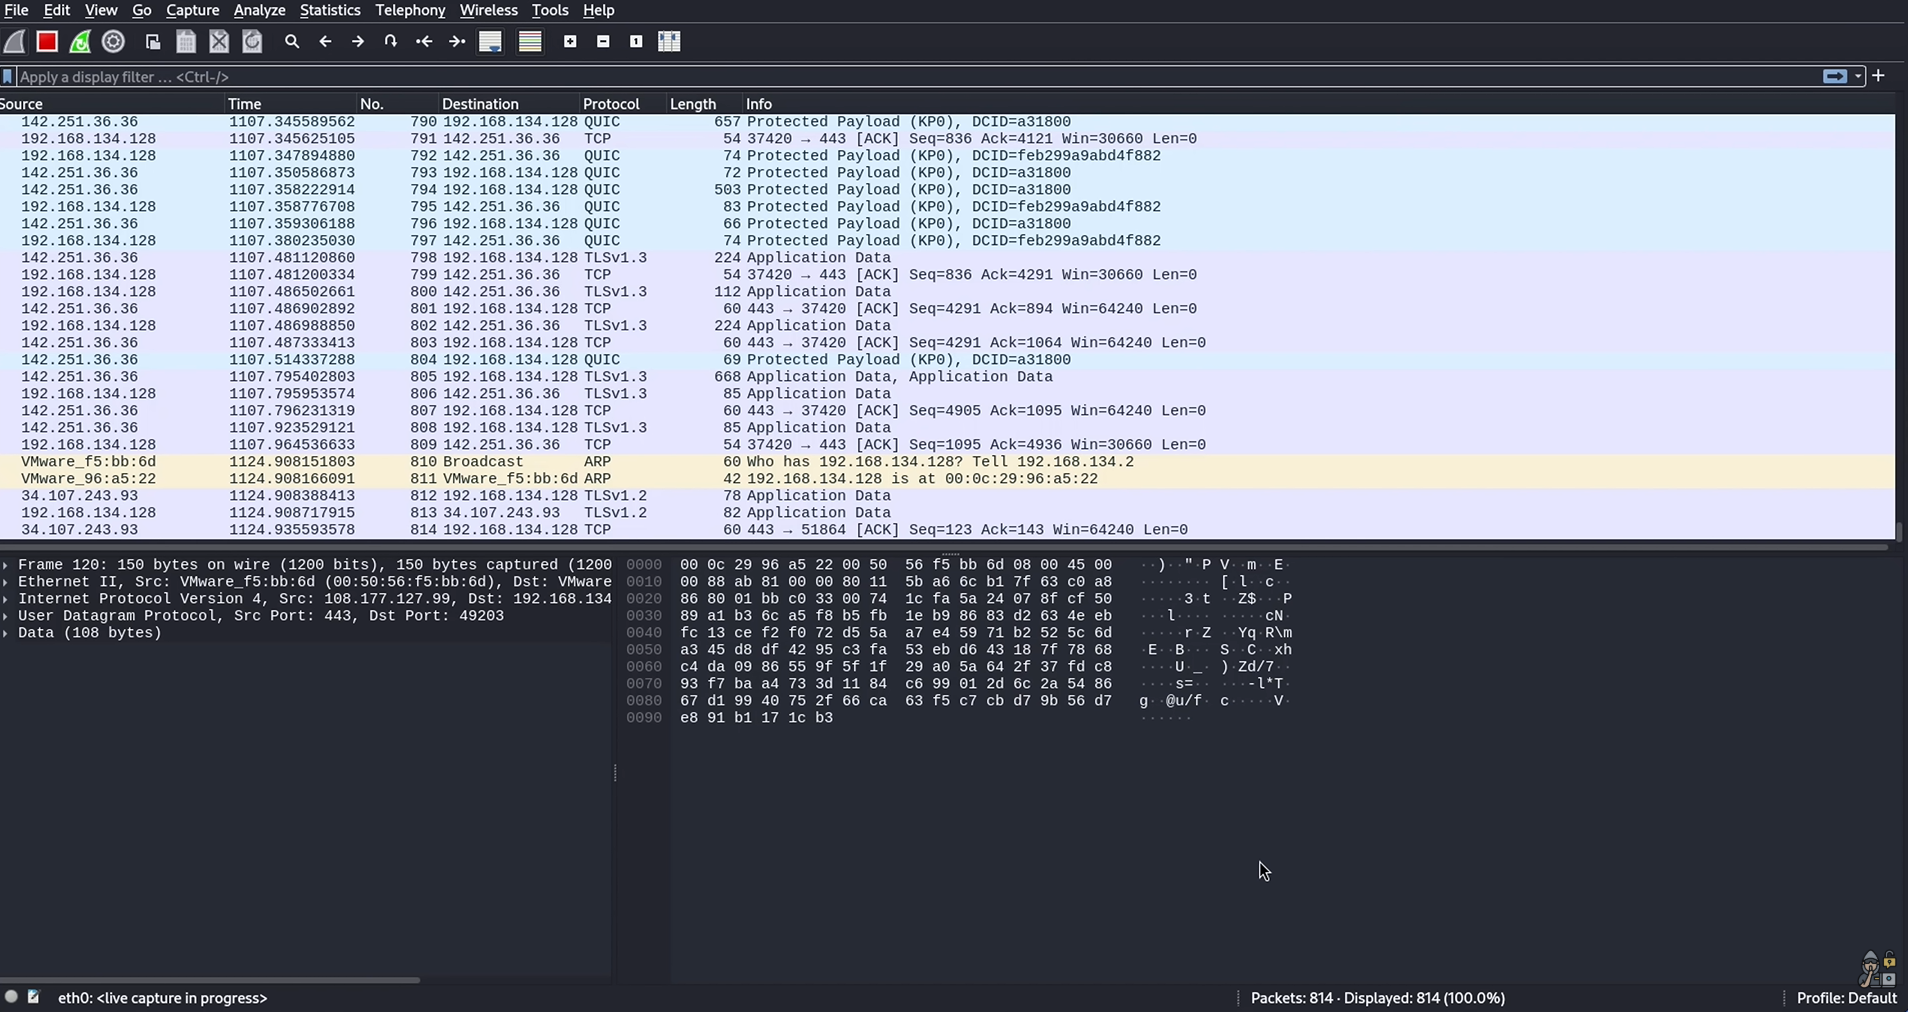
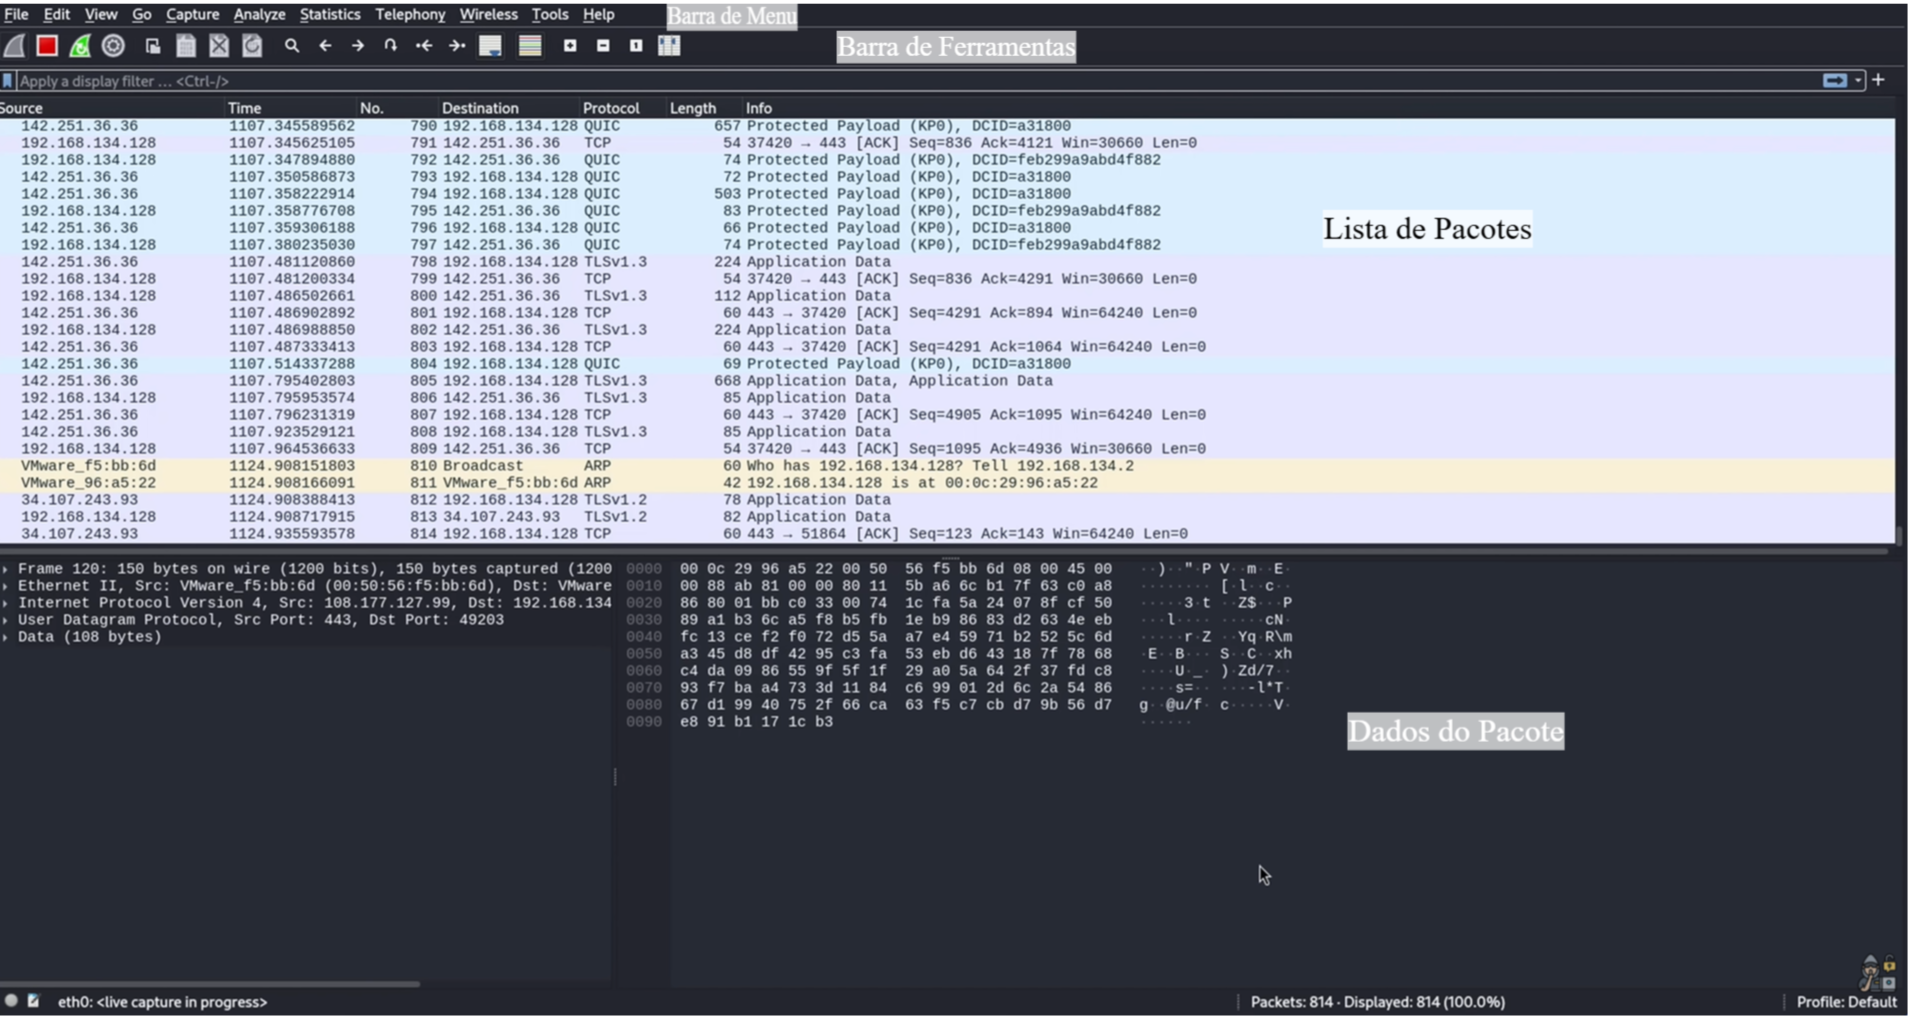
Descrição menu. Data: 2026-06-17 06:46:14 Arquivos: M .gitignore .obsidian/workspace.json Ferramentas/WireShark.md Trash/Imagens/Img Ferramentas/WireShark Interface.png

diff --git a/Ferramentas/WireShark.md b/Ferramentas/WireShark.md
@@ -16,9 +16,16 @@ O WireShark (anteriormente conhecido como Ethereal) é um analisador de pacotes 
   <figcaption>WireShark</figcaption>
 </figure>
 
-A principal parte e que também vai ser mais vista e usada durante o uso e sua interface, nela temos de tudo
+A principal parte e que também vai ser mais vista e usada durante o uso e sua interface, nela temos de tudo, dados, menu, atalhos, pacotes e diversas outras coisas. 
 
-![[WireShark Interface.png]]
+Agora falando das principais funções de cada opção na  barra de menus logo no começo temos o **File**, nela é possível salvar, abrir, exportar e juntar capturas de pacotes. Depois temos a opção **Edit** que contem um localizador de pacotes, gerenciamento de perfis e também as configurações de preferencias para o uso do programa. Para modificar qualquer aspecto visual basta acessar o menu **View** e alterar o que for de seu agrado. A opção **Go** server para navegar entre os pacotes capturados. Para começar, parar ou filtrar uma captura de pacotes basta acessar a aba **Capture**. 
+No **Analyze** da para usar filtros, macros, seguir pacotes e conversas, colocar colunas e protocolos. 
+
+<figure style="text-align: center;">
+  <img src="WireShark Interface.png" style="margin: 0 auto;">
+  <figcaption>Interface do WireShark</figcaption>
+</figure>
+
 ## Parte Avançada
 
 
